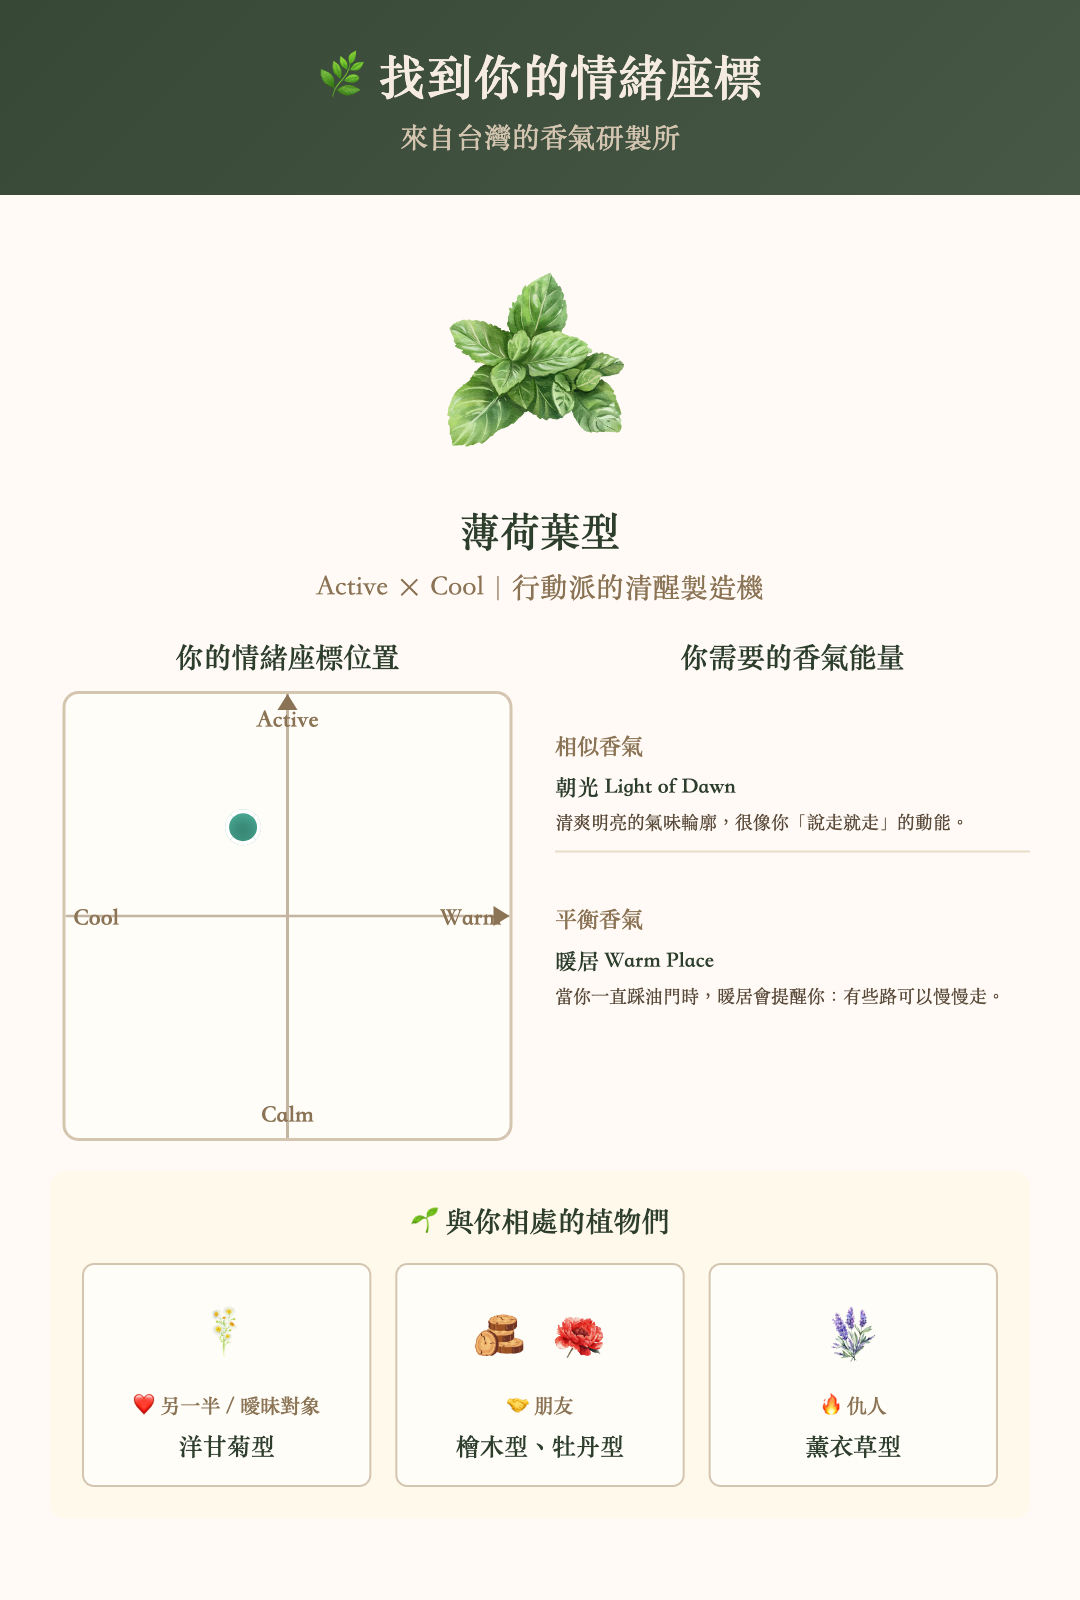
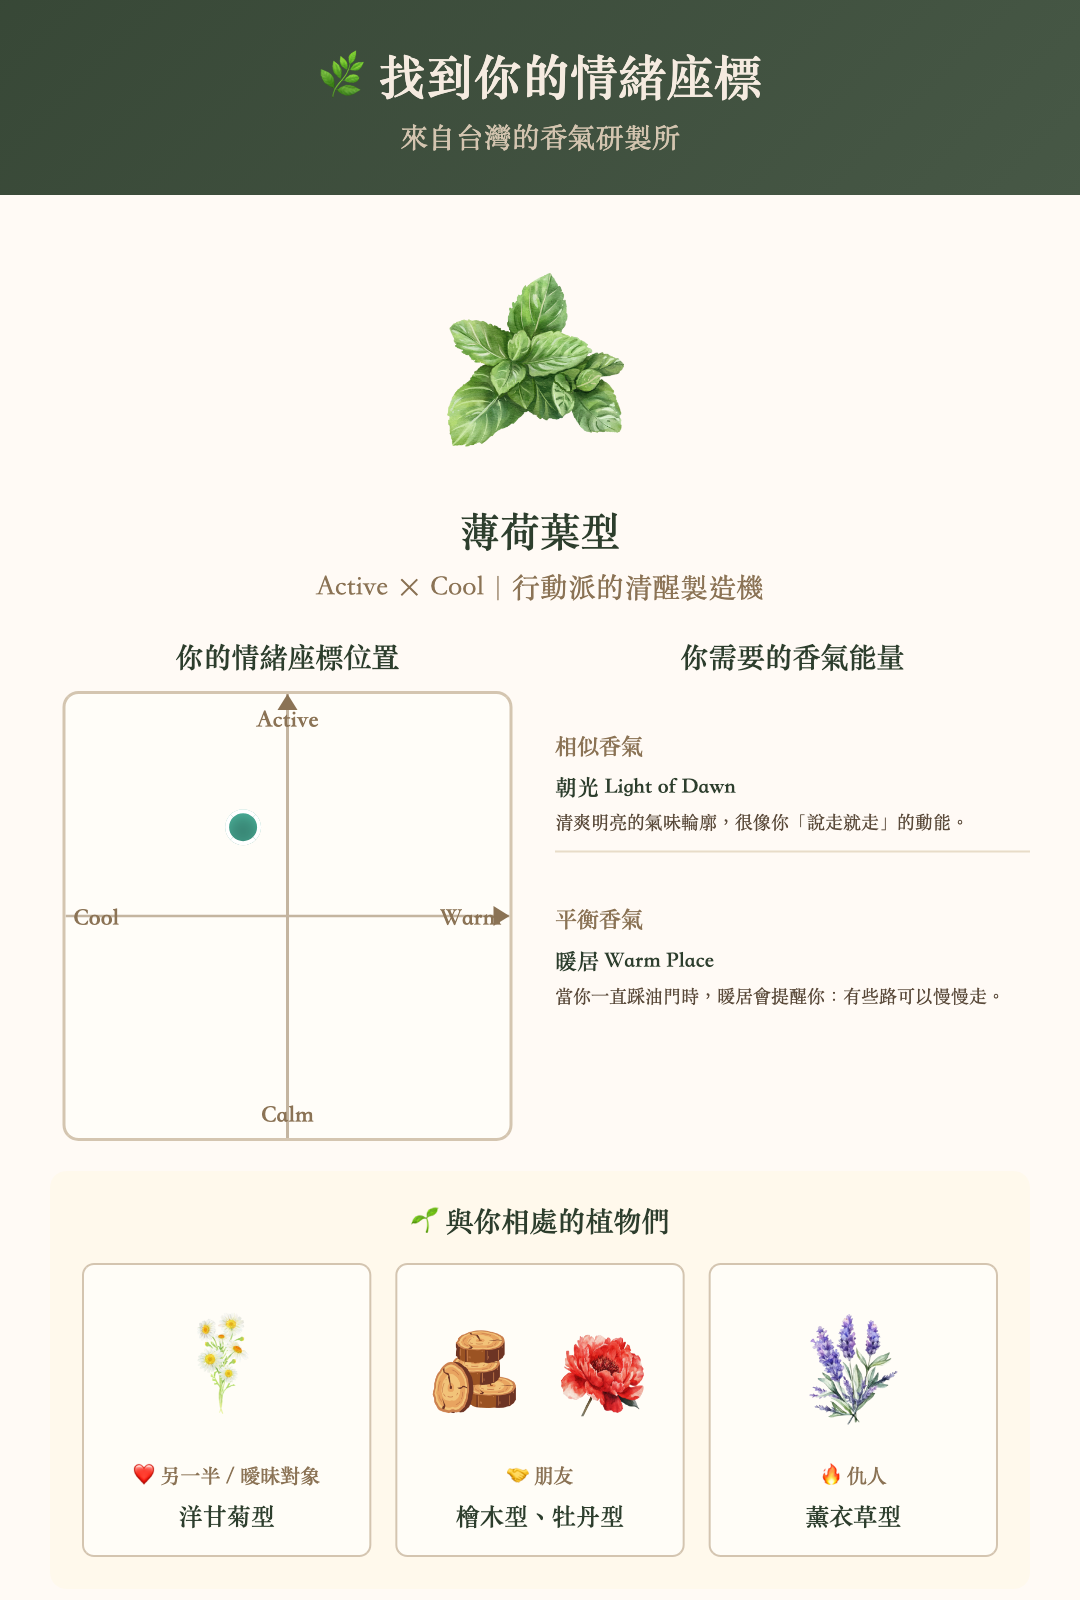
調整分享關係植物圖片為統一 140px

diff --git a/css/share-card.css b/css/share-card.css
@@ -258,8 +258,8 @@
 
 /* 植物圖片樣式 */
 .ig-share-card__relation-image {
-  width: 70px;
-  height: 70px;
+  width: 140px;
+  height: 140px;
   /* 移除圓框 */
   border-radius: 0;
   /* 保留比例或改成 contain */
@@ -272,8 +272,8 @@
 
 /* 多個植物時保持相同尺寸 */
 .ig-share-card__relation-image.multi-plant {
-  width: 70px;
-  height: 70px;
+  width: 120px;
+  height: 140px;
 }
 
 
